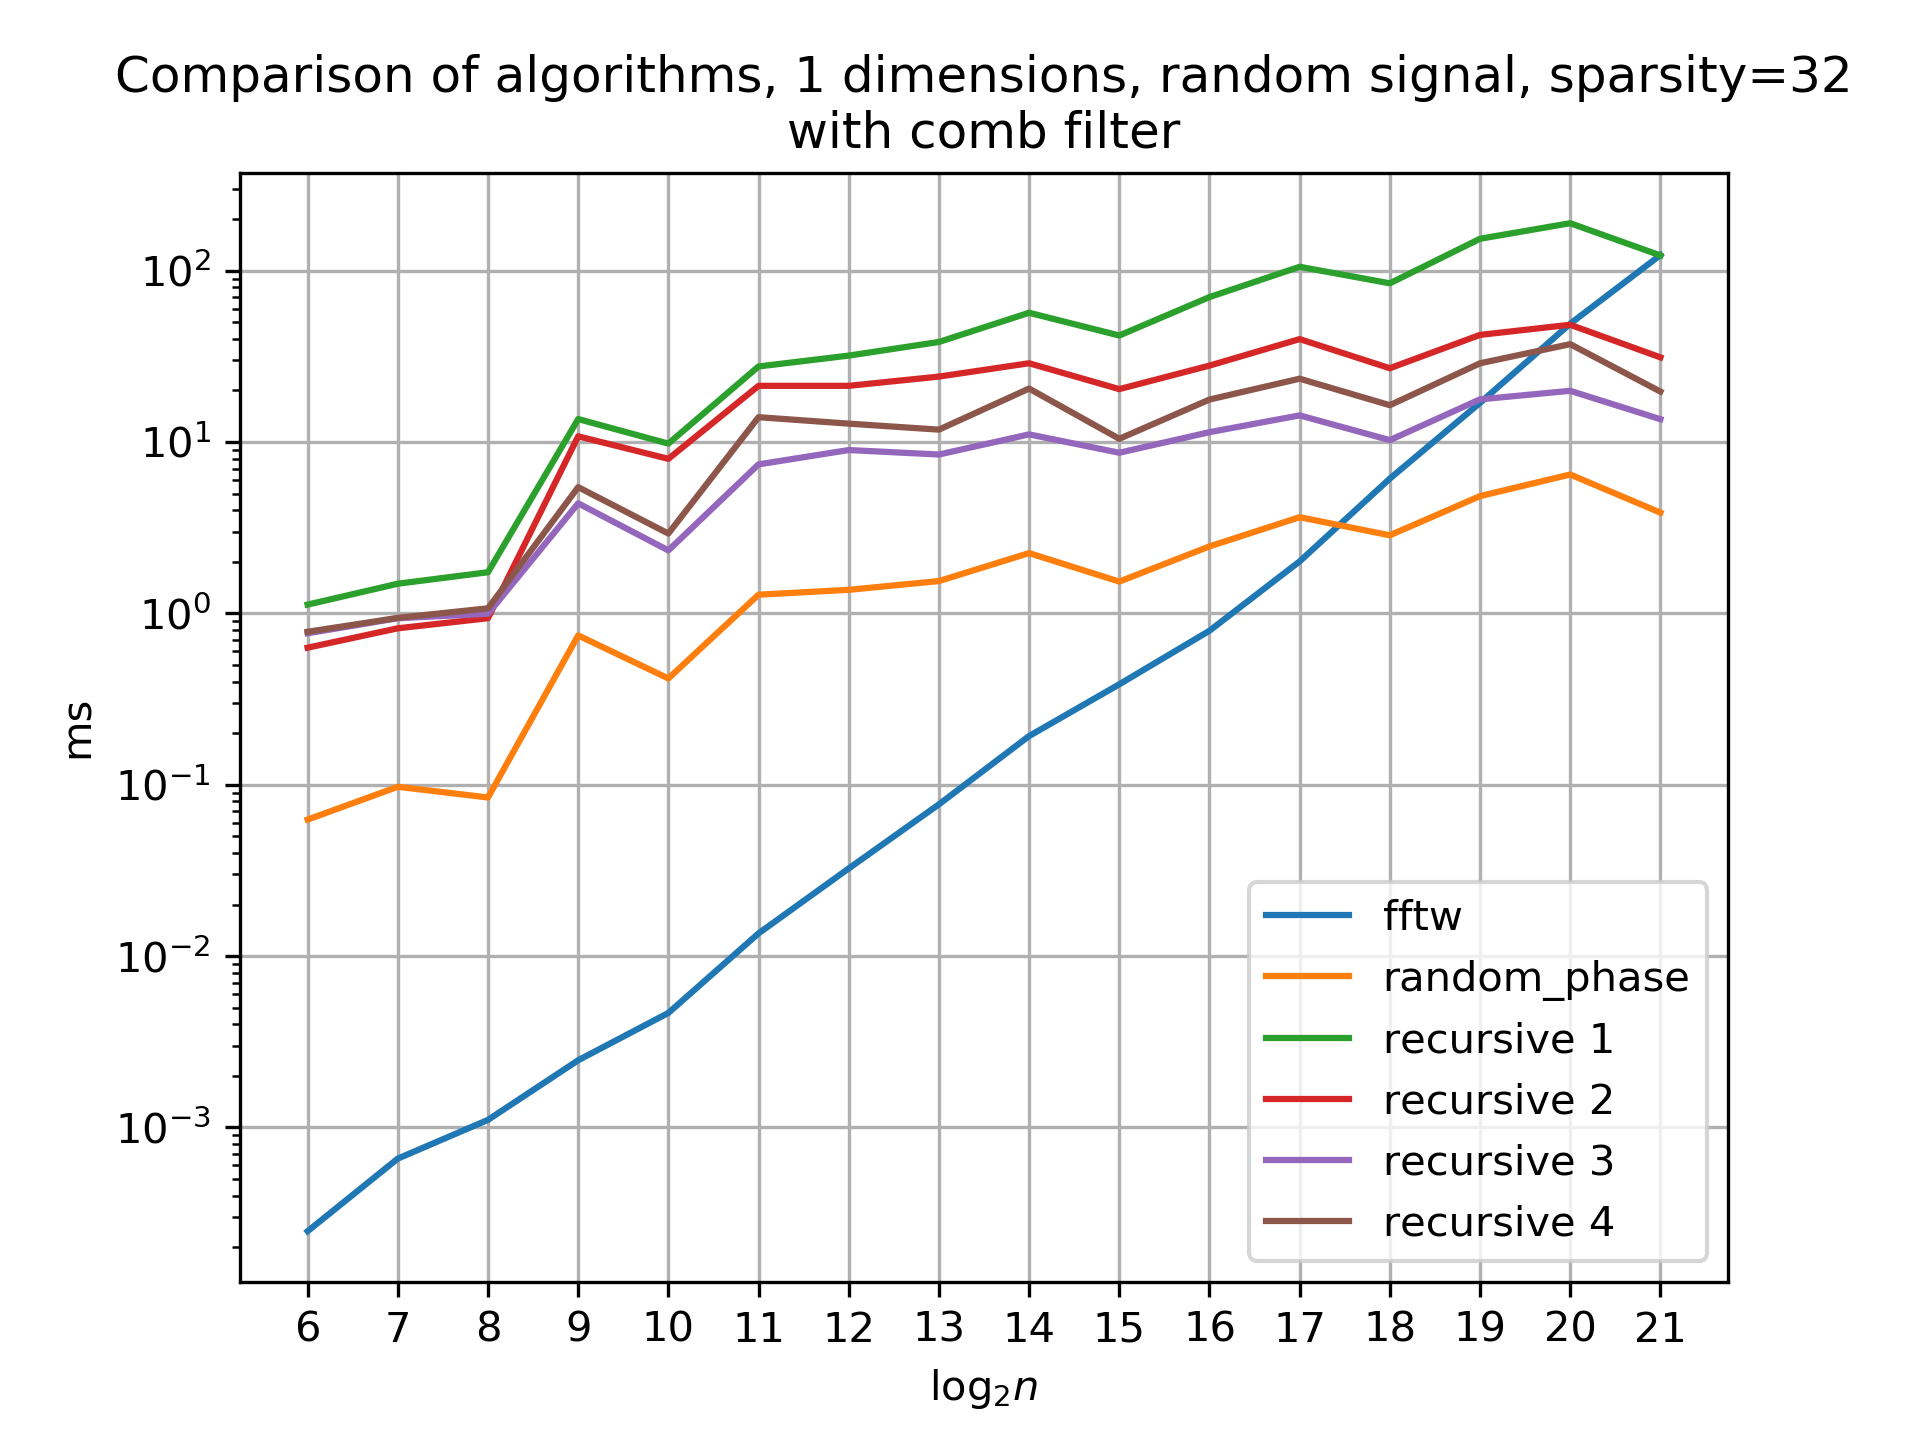
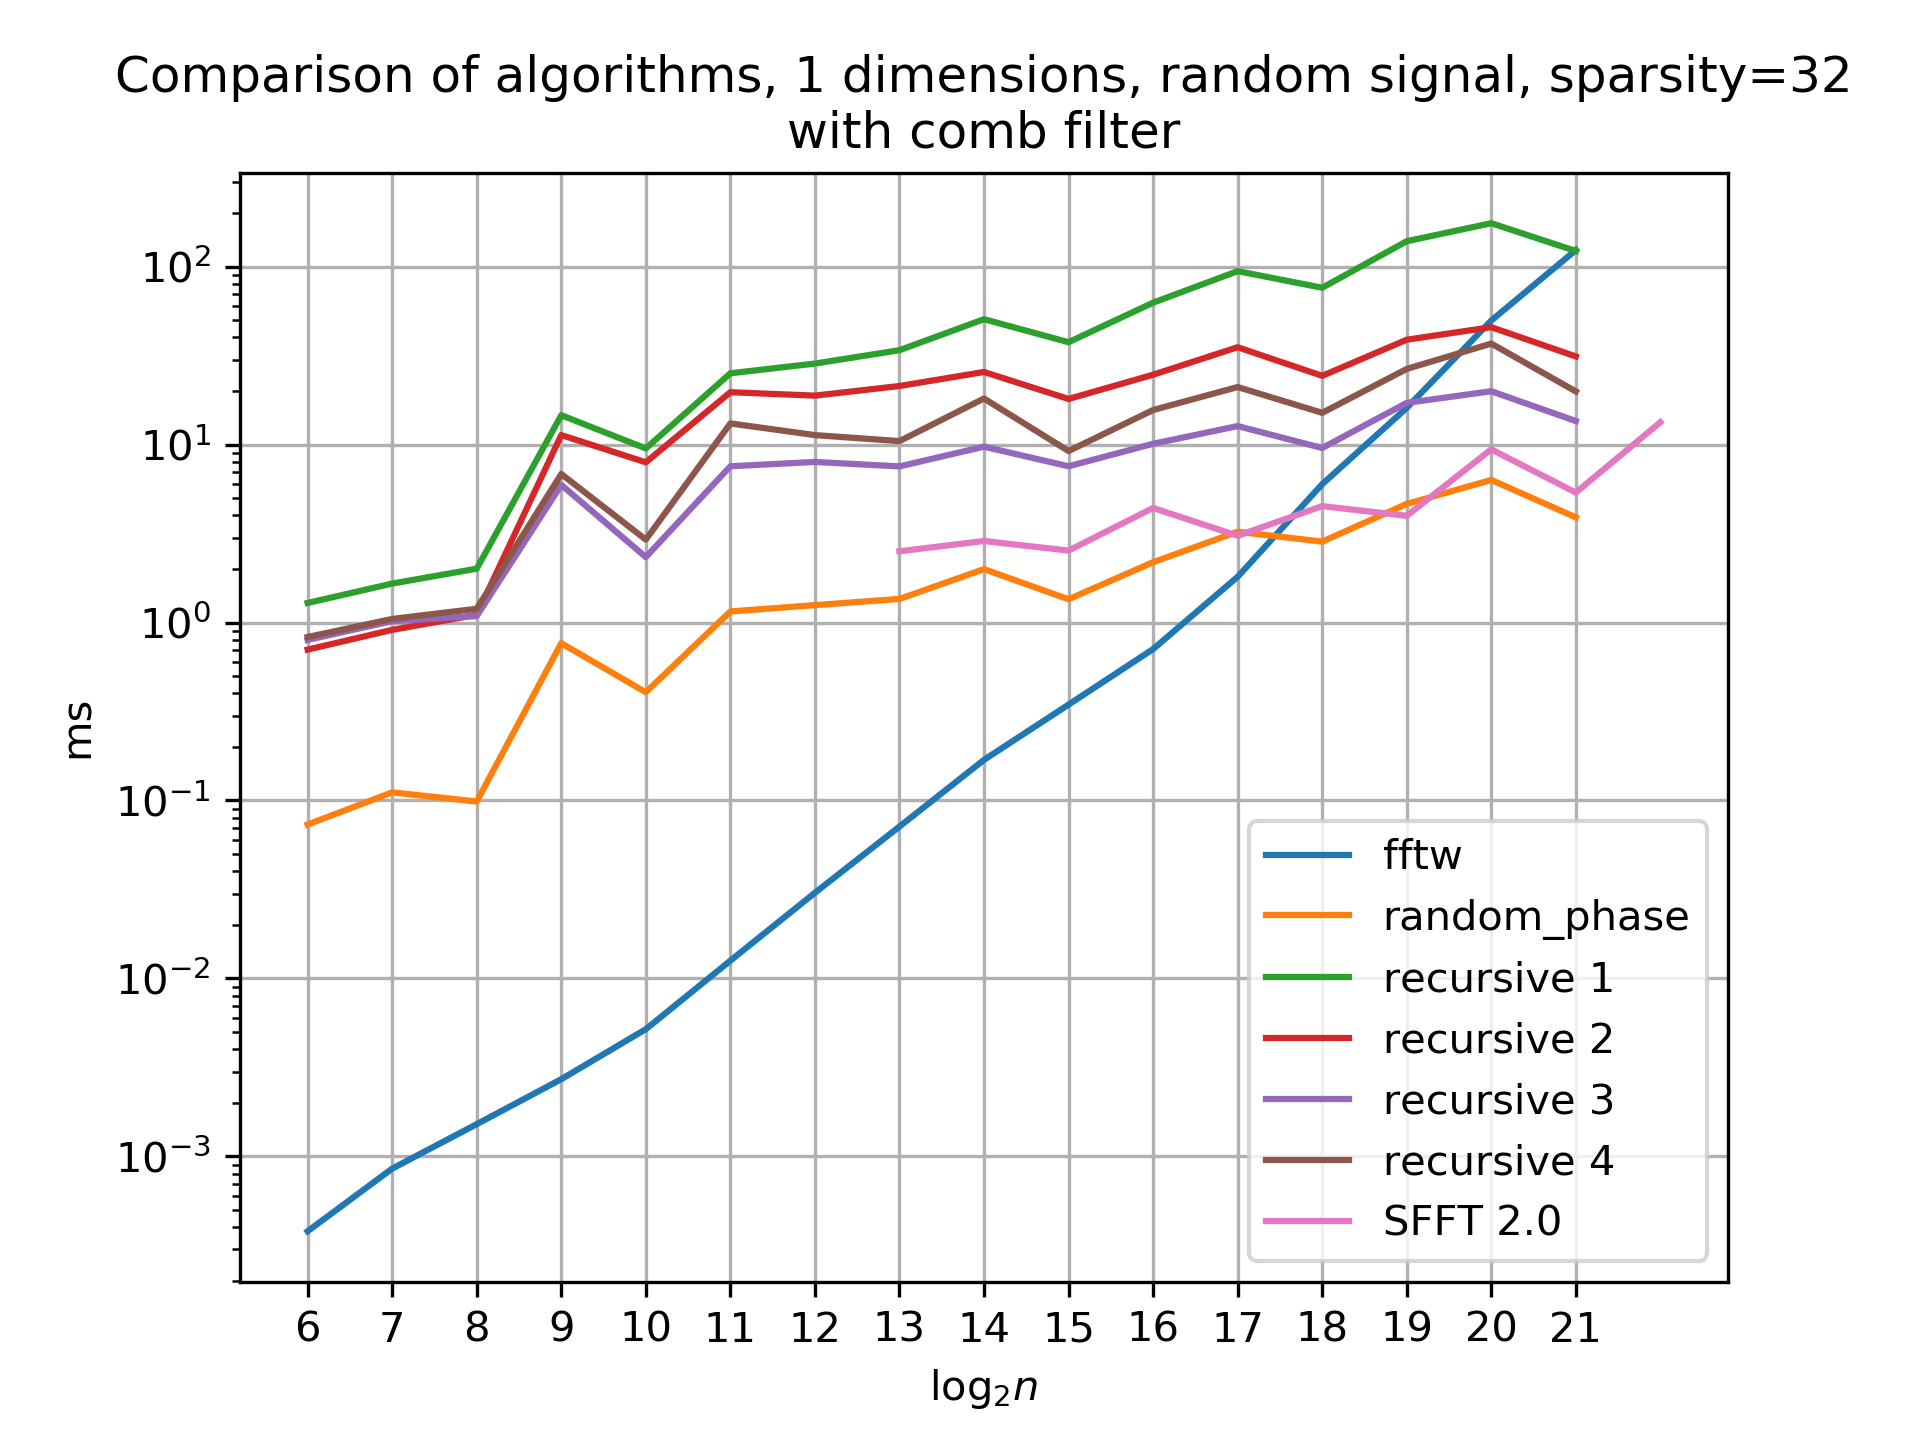
added graphs for sfftv2

diff --git a/experiment_utils.py b/experiment_utils.py
@@ -12,10 +12,13 @@ def make_graph(name, title, p, algs, data, extra_data_path=''):
 
     if extra_data_path:
         with open(extra_data_path, 'r') as f:
-            label = f.readline().strip()
-            p1 = list(map(int, f.readline().split()))
-            v1 = np.array(list(map(int, f.readline().split())))
-            plt.plot(p1, v1 / milsec, label=label)
+            label = f.readline()
+            while len(label) > 1:
+                label = label.strip()
+                p1 = list(map(int, f.readline().split()))
+                v1 = np.array(list(map(int, f.readline().split())))
+                plt.plot(p1, v1 / milsec, label=label)
+                label = f.readline()
 
     plt.legend()
     plt.title(title)

diff --git a/README.md b/README.md
@@ -17,6 +17,16 @@ cmake -DCMAKE_BUILD_TYPE=Release ..
 make
 ```
 
+If you want to add `sfft v.1-v.2` to graphs, compile them by running:
+
+```
+cd sfft-v1v2
+mkdir build
+cd build
+cmake -DCMAKE_BUILD_TYPE=Release ..
+make
+```
+
 Now you can run one of the `test_*` executables in `build` directory.
 
 # Making graphs
